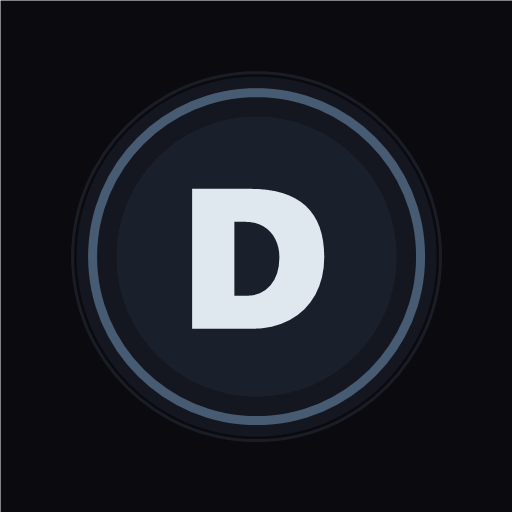
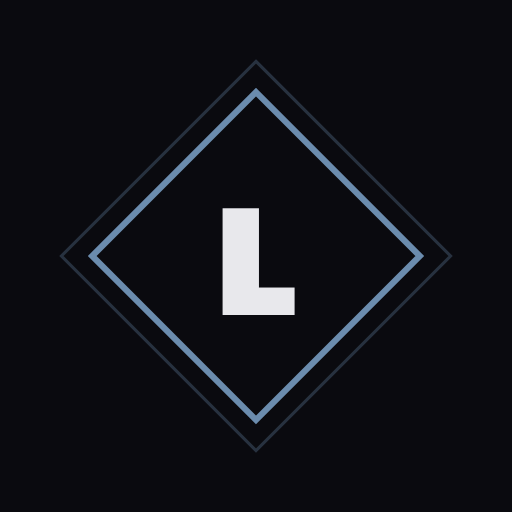
Icône PWA conforme : losange fin + L en Saira 900
L'icône précédente (lettre D dans un cercle) ne suivait pas la spec :
losange aux traits fins #6b8cae, lettre L en Saira très bold, fond
#0a0a0f. Source SVG dans assets/icone.svg, PNG 512/192 + apple-touch
générés par script canvas Node (@user/canvas + TTF Saira 900).
Cache du service worker passé en v2 pour que les clients installés
récupèrent les nouvelles icônes (servies en cache-first).

Changed region(s): [[0.125, 0.125, 0.875, 0.875], [0.0, 0.0, 0.0312, 0.0312]]

diff --git a/sw.js b/sw.js
@@ -14,7 +14,7 @@
 // - Police Google Fonts : non interceptée, reste réseau.
 // ============================================
 
-var CACHE = "life-rpg-v1";
+var CACHE = "life-rpg-v2";
 
 var FICHIERS = [
   "./",